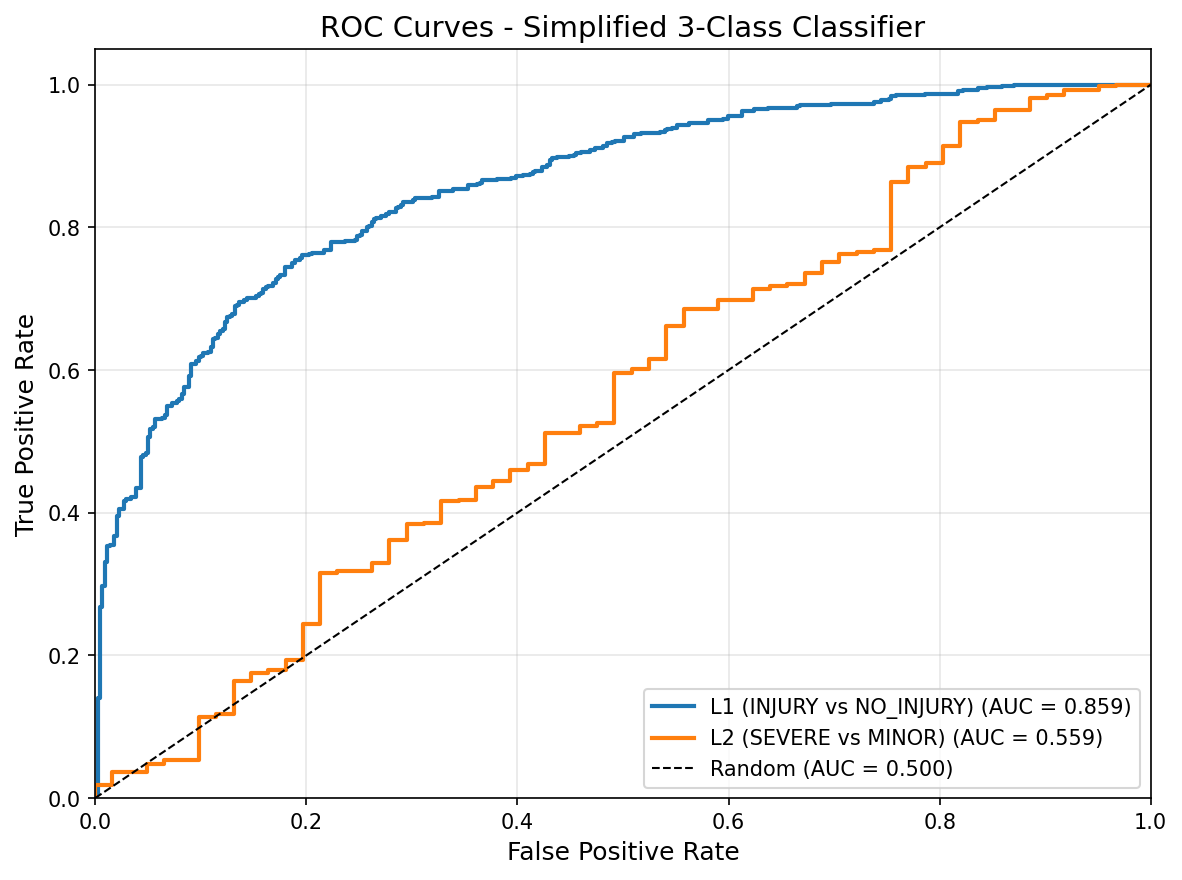
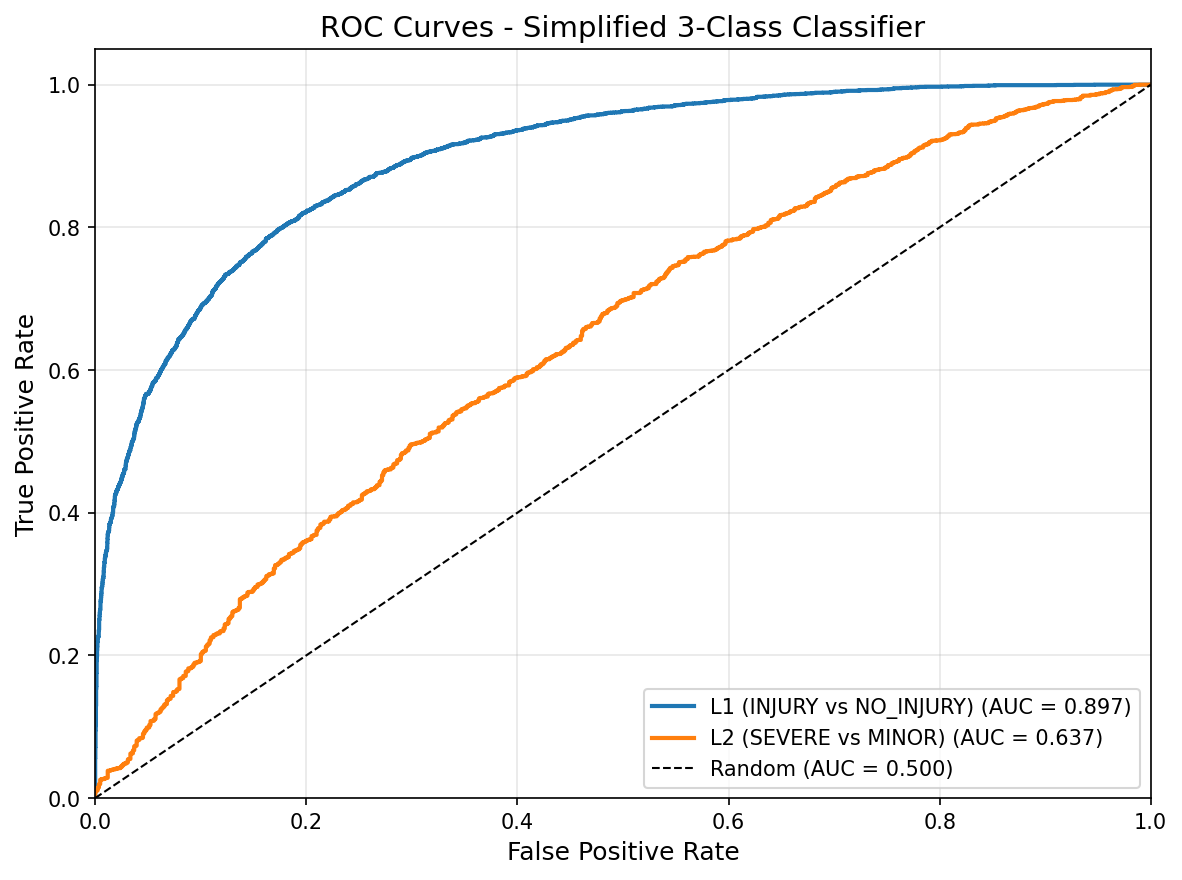
Made same change to main_simplified

diff --git a/training/main_simplified.py b/training/main_simplified.py
@@ -302,12 +302,18 @@ def _binary_metrics(y_true: np.ndarray, y_pred: np.ndarray, prefix: str) -> dict
 def run_simplified_pipeline(
     sample_size: int | None = None,
     feature_filter: str = "drop-low",
+    l2_weight_multiplier: float | None = None,
+    l2_resampling_method: str | None = None,
+    l2_target_recall: float | None = None,
 ) -> dict:
     """Run the simplified 3-class classification pipeline.
 
     Args:
         sample_size: Optional limit on dataset size for faster experimentation.
         feature_filter: Feature filtering mode ("none" or "drop-low").
+        l2_weight_multiplier: Override for L2 class weight multiplier.
+        l2_resampling_method: Override for L2 resampling method ('borderline' or 'adasyn').
+        l2_target_recall: Override for L2 target recall during threshold optimization.
 
     Returns:
         Dictionary of evaluation results.
@@ -317,6 +323,15 @@ def run_simplified_pipeline(
     logger.info("=" * 60)
 
     config = SimplifiedTreeConfig(sample_size=sample_size)
+
+    # Apply CLI overrides to config
+    if l2_weight_multiplier is not None:
+        config.l2_weight_multiplier = l2_weight_multiplier
+    if l2_resampling_method is not None:
+        config.l2_resampling_method = l2_resampling_method
+    if l2_target_recall is not None:
+        config.l2_target_recall = l2_target_recall
+
     logger.info(f"Configuration: {config}")
 
     # Load and merge data
@@ -404,6 +419,7 @@ def run_simplified_pipeline(
         l1_sampling_strategy=config.l1_sampling_strategy,
         l2_sampling_strategy=config.l2_sampling_strategy,
         l2_weight_multiplier=config.l2_weight_multiplier,
+        l2_resampling_method=config.l2_resampling_method,
         n_estimators=config.n_estimators,
         max_depth=config.max_depth,
         n_jobs=config.n_jobs,
@@ -420,7 +436,7 @@ def run_simplified_pipeline(
         X_val,
         targets_val,
         l1_target_recall=0.7,
-        l2_target_recall=0.5,
+        l2_target_recall=config.l2_target_recall,
     )
 
     # Evaluate
@@ -498,12 +514,38 @@ if __name__ == "__main__":
         default="drop-low",
         help="Feature filtering mode: 'none' (all features), 'drop-low' (drop DROP features), 'drop-review' (drop DROP + REVIEW features). Default: drop-low",
     )
+    # L2 tuning options (same as main_simplified_zones.py)
+    parser.add_argument(
+        "--l2-weight",
+        type=float,
+        default=None,
+        help="Class weight multiplier for severe class (default: 3.0). "
+             "Higher values prioritize severe recall over precision.",
+    )
+    parser.add_argument(
+        "--l2-resampling",
+        type=str,
+        choices=["borderline", "adasyn"],
+        default=None,
+        help="Resampling method for L2 classifier (default: adasyn). "
+             "ADASYN focuses on harder-to-learn samples.",
+    )
+    parser.add_argument(
+        "--l2-target-recall",
+        type=float,
+        default=None,
+        help="Target recall for L2 threshold optimization (default: 0.6). "
+             "Higher values catch more severe cases but increase false positives.",
+    )
 
     args = parser.parse_args()
 
     results = run_simplified_pipeline(
         sample_size=args.sample,
         feature_filter=args.feature_filter,
+        l2_weight_multiplier=args.l2_weight,
+        l2_resampling_method=args.l2_resampling,
+        l2_target_recall=args.l2_target_recall,
     )
 
     print("\n" + "=" * 60)
